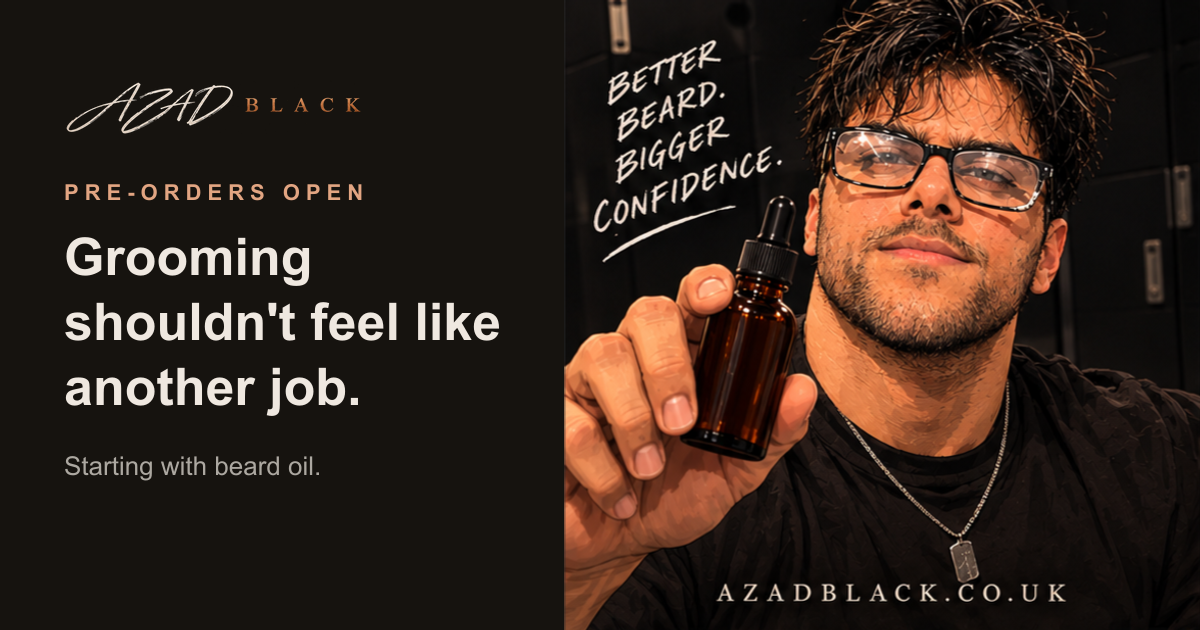
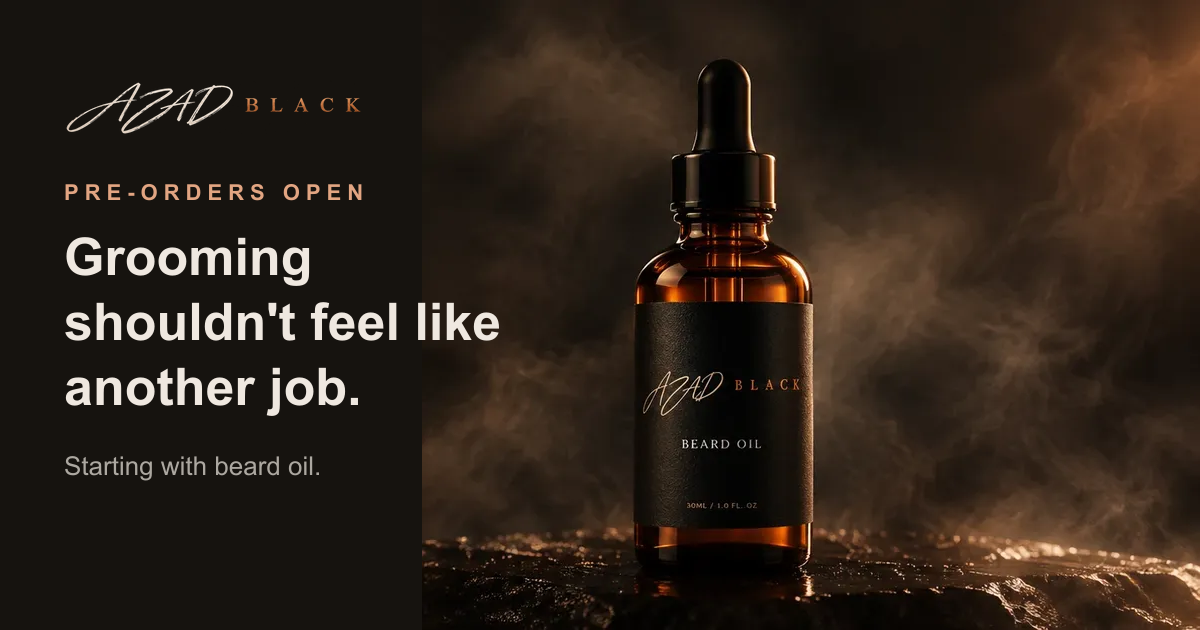
Rebuild the homepage hero from the brand artwork
The top of the homepage now matches the brand's hero artwork: the bottle
on wet stone in copper-lit smoke, with the eyebrow, a serif headline
(Gilda Display), the tagline and an outlined Pre-order now button.

The photo is the artwork with its text removed; the words are real text
on top, so they stay sharp and readable to search engines. Two soft
copper smoke layers drift slowly over it, and stay still for anyone with
reduced motion on. On a phone the bottle sits above the text.

The button goes to the product page. The share image is rebuilt from the
new photo, and the old founder hero photo is removed (the founder photo
in Our story stays).

diff --git a/src/components/Hero.js b/src/components/Hero.js
@@ -2,39 +2,59 @@ import Link from "next/link";
 import Image from "next/image";
 import { siteConfig } from "@/lib/site-config";
 
+// The brand's hero artwork: the bottle on wet stone in copper-lit smoke. The
+// photo is the artwork with its baked-in text removed — the words are real
+// text on top, so they stay sharp, can be translated and are read by search
+// engines. Two extra smoke layers drift slowly over it (still for anyone who
+// has reduced motion turned on).
 export default function Hero() {
   return (
-    <section className="bg-peach">
-      <div className="mx-auto max-w-6xl px-5 py-16 sm:py-24 grid sm:grid-cols-2 gap-10 items-center">
-        <div className="animate-fade-in-up">
-          <p className="uppercase tracking-widest text-xs font-semibold text-teal mb-4">
+    <section className="relative isolate overflow-hidden bg-[#0d0a08] min-h-[640px] sm:min-h-0 sm:aspect-[1967/799] flex items-end sm:items-center">
+      {/* On a phone the bottle sits above the text (top of the section);
+          on a big screen it fills the whole section, beside the text. */}
+      <picture className="absolute inset-x-0 top-0 h-[62%] sm:h-full sm:inset-0 -z-20">
+        <source media="(max-width: 639px)" srcSet="/hero-bg-mobile.webp" />
+        <Image
+          src="/hero-bg.webp"
+          alt={`${siteConfig.brandName} beard oil bottle on dark stone, surrounded by smoke`}
+          fill
+          priority
+          sizes="100vw"
+          className="object-cover object-top sm:object-center"
+        />
+      </picture>
+
+      <div aria-hidden="true" className="hero-smoke hero-smoke-a -z-10" />
+      <div aria-hidden="true" className="hero-smoke hero-smoke-b -z-10" />
+
+      {/* Keeps the text readable over the photo: dark at the bottom on a
+          phone, dark on the left on a big screen. */}
+      <div
+        aria-hidden="true"
+        className="absolute inset-0 -z-10 bg-gradient-to-t from-[#0d0a08] from-40% via-[#0d0a08]/60 via-55% to-transparent to-65% sm:from-0% sm:via-50% sm:to-100% sm:bg-gradient-to-r sm:from-[#0d0a08]/90 sm:via-[#0d0a08]/40 sm:to-transparent"
+      />
+
+      <div className="w-full px-5 sm:pl-[12.2%] sm:pr-0 pb-12 pt-[min(115vw,520px)] sm:pt-0 sm:pb-[3%] animate-fade-in-up">
+        <div className="sm:whitespace-nowrap">
+          <p className="text-teal text-[11px] sm:text-[clamp(11px,0.95vw,18px)] font-medium uppercase tracking-[0.2em]">
             Pre-orders open · The first drop
           </p>
-          <h1 className="text-4xl sm:text-5xl font-bold text-ink leading-tight">
-            {siteConfig.tagline}
+          {/* Sized to the width of the hero on a big screen, so it breaks
+              after "shouldn't" as in the artwork at any desktop width. */}
+          <h1 className="mt-4 sm:mt-[0.9vw] font-display text-[2.75rem] leading-[1.05] sm:text-[4.3vw] sm:leading-[1.08] text-[#ece3d9]">
+            Grooming shouldn&rsquo;t <br className="hidden sm:block" />
+            feel like another job.
           </h1>
-          <p className="mt-5 text-ink/70 text-lg max-w-md">
-            {siteConfig.description}
-          </p>
+          <p className="mt-4 sm:mt-[0.6vw] text-ink/85 text-base sm:text-[clamp(1rem,1.1vw,1.4rem)]">{siteConfig.description}</p>
           <Link
-            href="#shop"
-            className="inline-block mt-8 bg-ink text-cream rounded-full px-7 py-3.5 font-semibold transition-all duration-200 hover:opacity-85 active:scale-95"
+            href="/beard-oil"
+            className="group mt-8 sm:mt-[2vw] inline-flex items-center gap-3 rounded-full border border-teal/80 px-8 py-4 sm:px-[2.2vw] sm:py-[1.1vw] text-teal text-xs sm:text-[clamp(12px,0.9vw,17px)] font-semibold uppercase tracking-[0.2em] transition-colors duration-200 hover:bg-teal hover:text-[#0d0a08] focus-visible:outline-2 focus-visible:outline-offset-4 focus-visible:outline-teal"
           >
             Pre-order now
+            <span aria-hidden="true" className="transition-transform duration-200 group-hover:translate-x-1">
+              →
+            </span>
           </Link>
-        </div>
-        <div
-          className="flex justify-center animate-fade-in-up"
-          style={{ animationDelay: "0.15s" }}
-        >
-          <Image
-            src="/hero.png"
-            alt={`${siteConfig.brandName} founder holding a dropper bottle of beard oil`}
-            width={620}
-            height={633}
-            priority
-            className="w-full max-w-xl rounded-2xl object-cover border border-ink/10 transition-transform duration-500 hover:scale-[1.02]"
-          />
         </div>
       </div>
     </section>

diff --git a/src/app/globals.css b/src/app/globals.css
@@ -17,6 +17,7 @@
   --color-foreground: var(--foreground);
   --font-sans: var(--font-geist-sans);
   --font-mono: var(--font-geist-mono);
+  --font-display: var(--font-gilda);
   --color-ink: var(--color-ink);
   --color-navy: var(--color-navy);
   --color-peach: var(--color-peach);
@@ -99,5 +100,57 @@ html {
 @media (prefers-reduced-motion: reduce) {
   html {
     scroll-behavior: auto;
+  }
+}
+
+/* Homepage hero: soft copper smoke drifting over the photo. Two layers at
+   different speeds so the movement never visibly repeats. */
+.hero-smoke {
+  position: absolute;
+  inset: -20%;
+  pointer-events: none;
+  mix-blend-mode: screen;
+  filter: blur(40px);
+}
+
+.hero-smoke-a {
+  background:
+    radial-gradient(ellipse 30% 22% at 72% 60%, rgb(201 138 92 / 0.18), transparent 70%),
+    radial-gradient(ellipse 26% 30% at 92% 30%, rgb(226 165 130 / 0.14), transparent 70%);
+  animation: smoke-drift-a 26s ease-in-out infinite alternate;
+}
+
+.hero-smoke-b {
+  background:
+    radial-gradient(ellipse 34% 18% at 55% 80%, rgb(180 150 120 / 0.12), transparent 70%),
+    radial-gradient(ellipse 20% 26% at 85% 75%, rgb(201 138 92 / 0.12), transparent 70%);
+  animation: smoke-drift-b 34s ease-in-out infinite alternate;
+}
+
+@keyframes smoke-drift-a {
+  from {
+    transform: translate3d(0, 0, 0) scale(1);
+    opacity: 0.7;
+  }
+  to {
+    transform: translate3d(-6%, -4%, 0) scale(1.08);
+    opacity: 1;
+  }
+}
+
+@keyframes smoke-drift-b {
+  from {
+    transform: translate3d(0, 0, 0) scale(1.05);
+    opacity: 1;
+  }
+  to {
+    transform: translate3d(5%, -6%, 0) scale(1);
+    opacity: 0.6;
+  }
+}
+
+@media (prefers-reduced-motion: reduce) {
+  .hero-smoke {
+    animation: none;
   }
 }

diff --git a/src/app/layout.js b/src/app/layout.js
@@ -1,4 +1,4 @@
-import { Geist, Geist_Mono } from "next/font/google";
+import { Geist, Geist_Mono, Gilda_Display } from "next/font/google";
 import { Analytics } from "@vercel/analytics/next";
 import "./globals.css";
 import { CartProvider } from "@/lib/cart-context";
@@ -11,6 +11,13 @@ import { siteDescription } from "@/lib/seo";
 
 const geistSans = Geist({
   variable: "--font-geist-sans",
+  subsets: ["latin"],
+});
+
+// The display serif for the homepage headline.
+const gilda = Gilda_Display({
+  variable: "--font-gilda",
+  weight: "400",
   subsets: ["latin"],
 });
 
@@ -60,7 +67,7 @@ export default function RootLayout({ children }) {
   return (
     <html
       lang="en-GB"
-      className={`${geistSans.variable} ${geistMono.variable} h-full antialiased`}
+      className={`${geistSans.variable} ${geistMono.variable} ${gilda.variable} h-full antialiased`}
     >
       <body className="min-h-full flex flex-col bg-cream text-ink">
         <CartProvider>

diff --git a/src/app/sitemap.js b/src/app/sitemap.js
@@ -11,7 +11,7 @@ export default function sitemap() {
       lastModified,
       changeFrequency: "weekly",
       priority: 1,
-      images: [absolute("/hero.png"), absolute("/about/founder.png")],
+      images: [absolute("/hero-bg.webp"), absolute("/about/founder.png")],
     },
     {
       url: absolute(PRODUCT.path),
